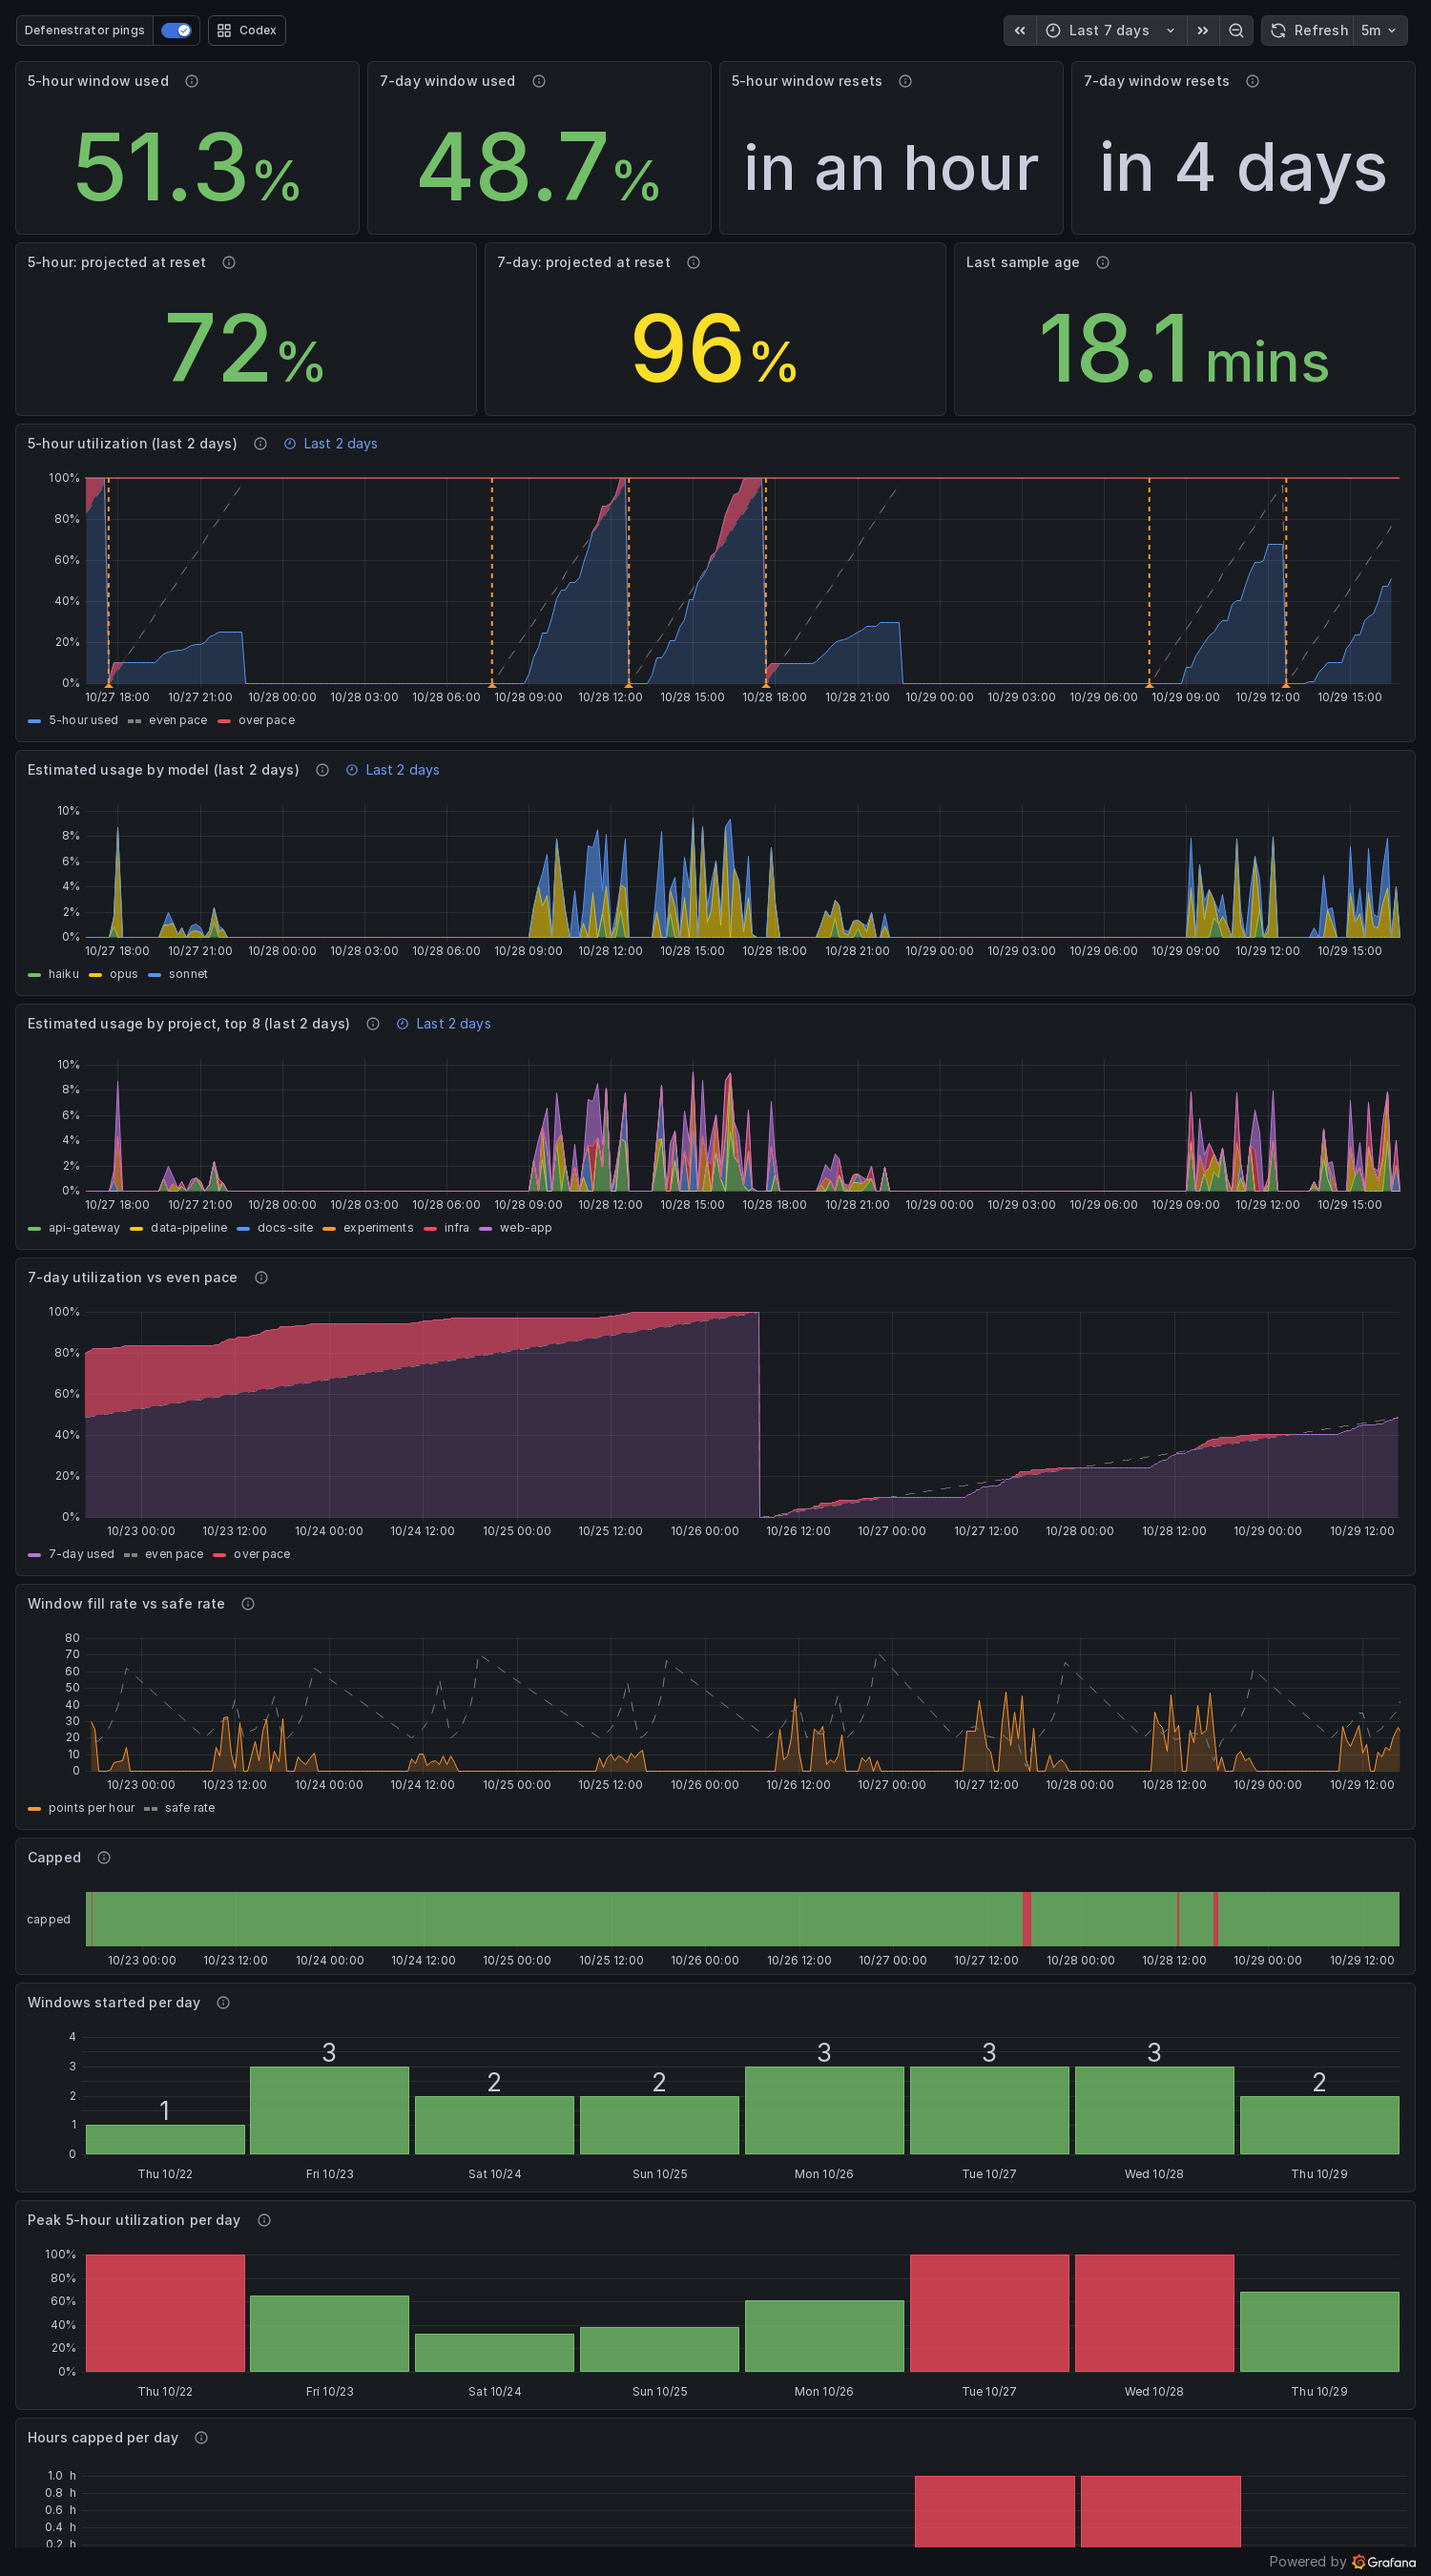
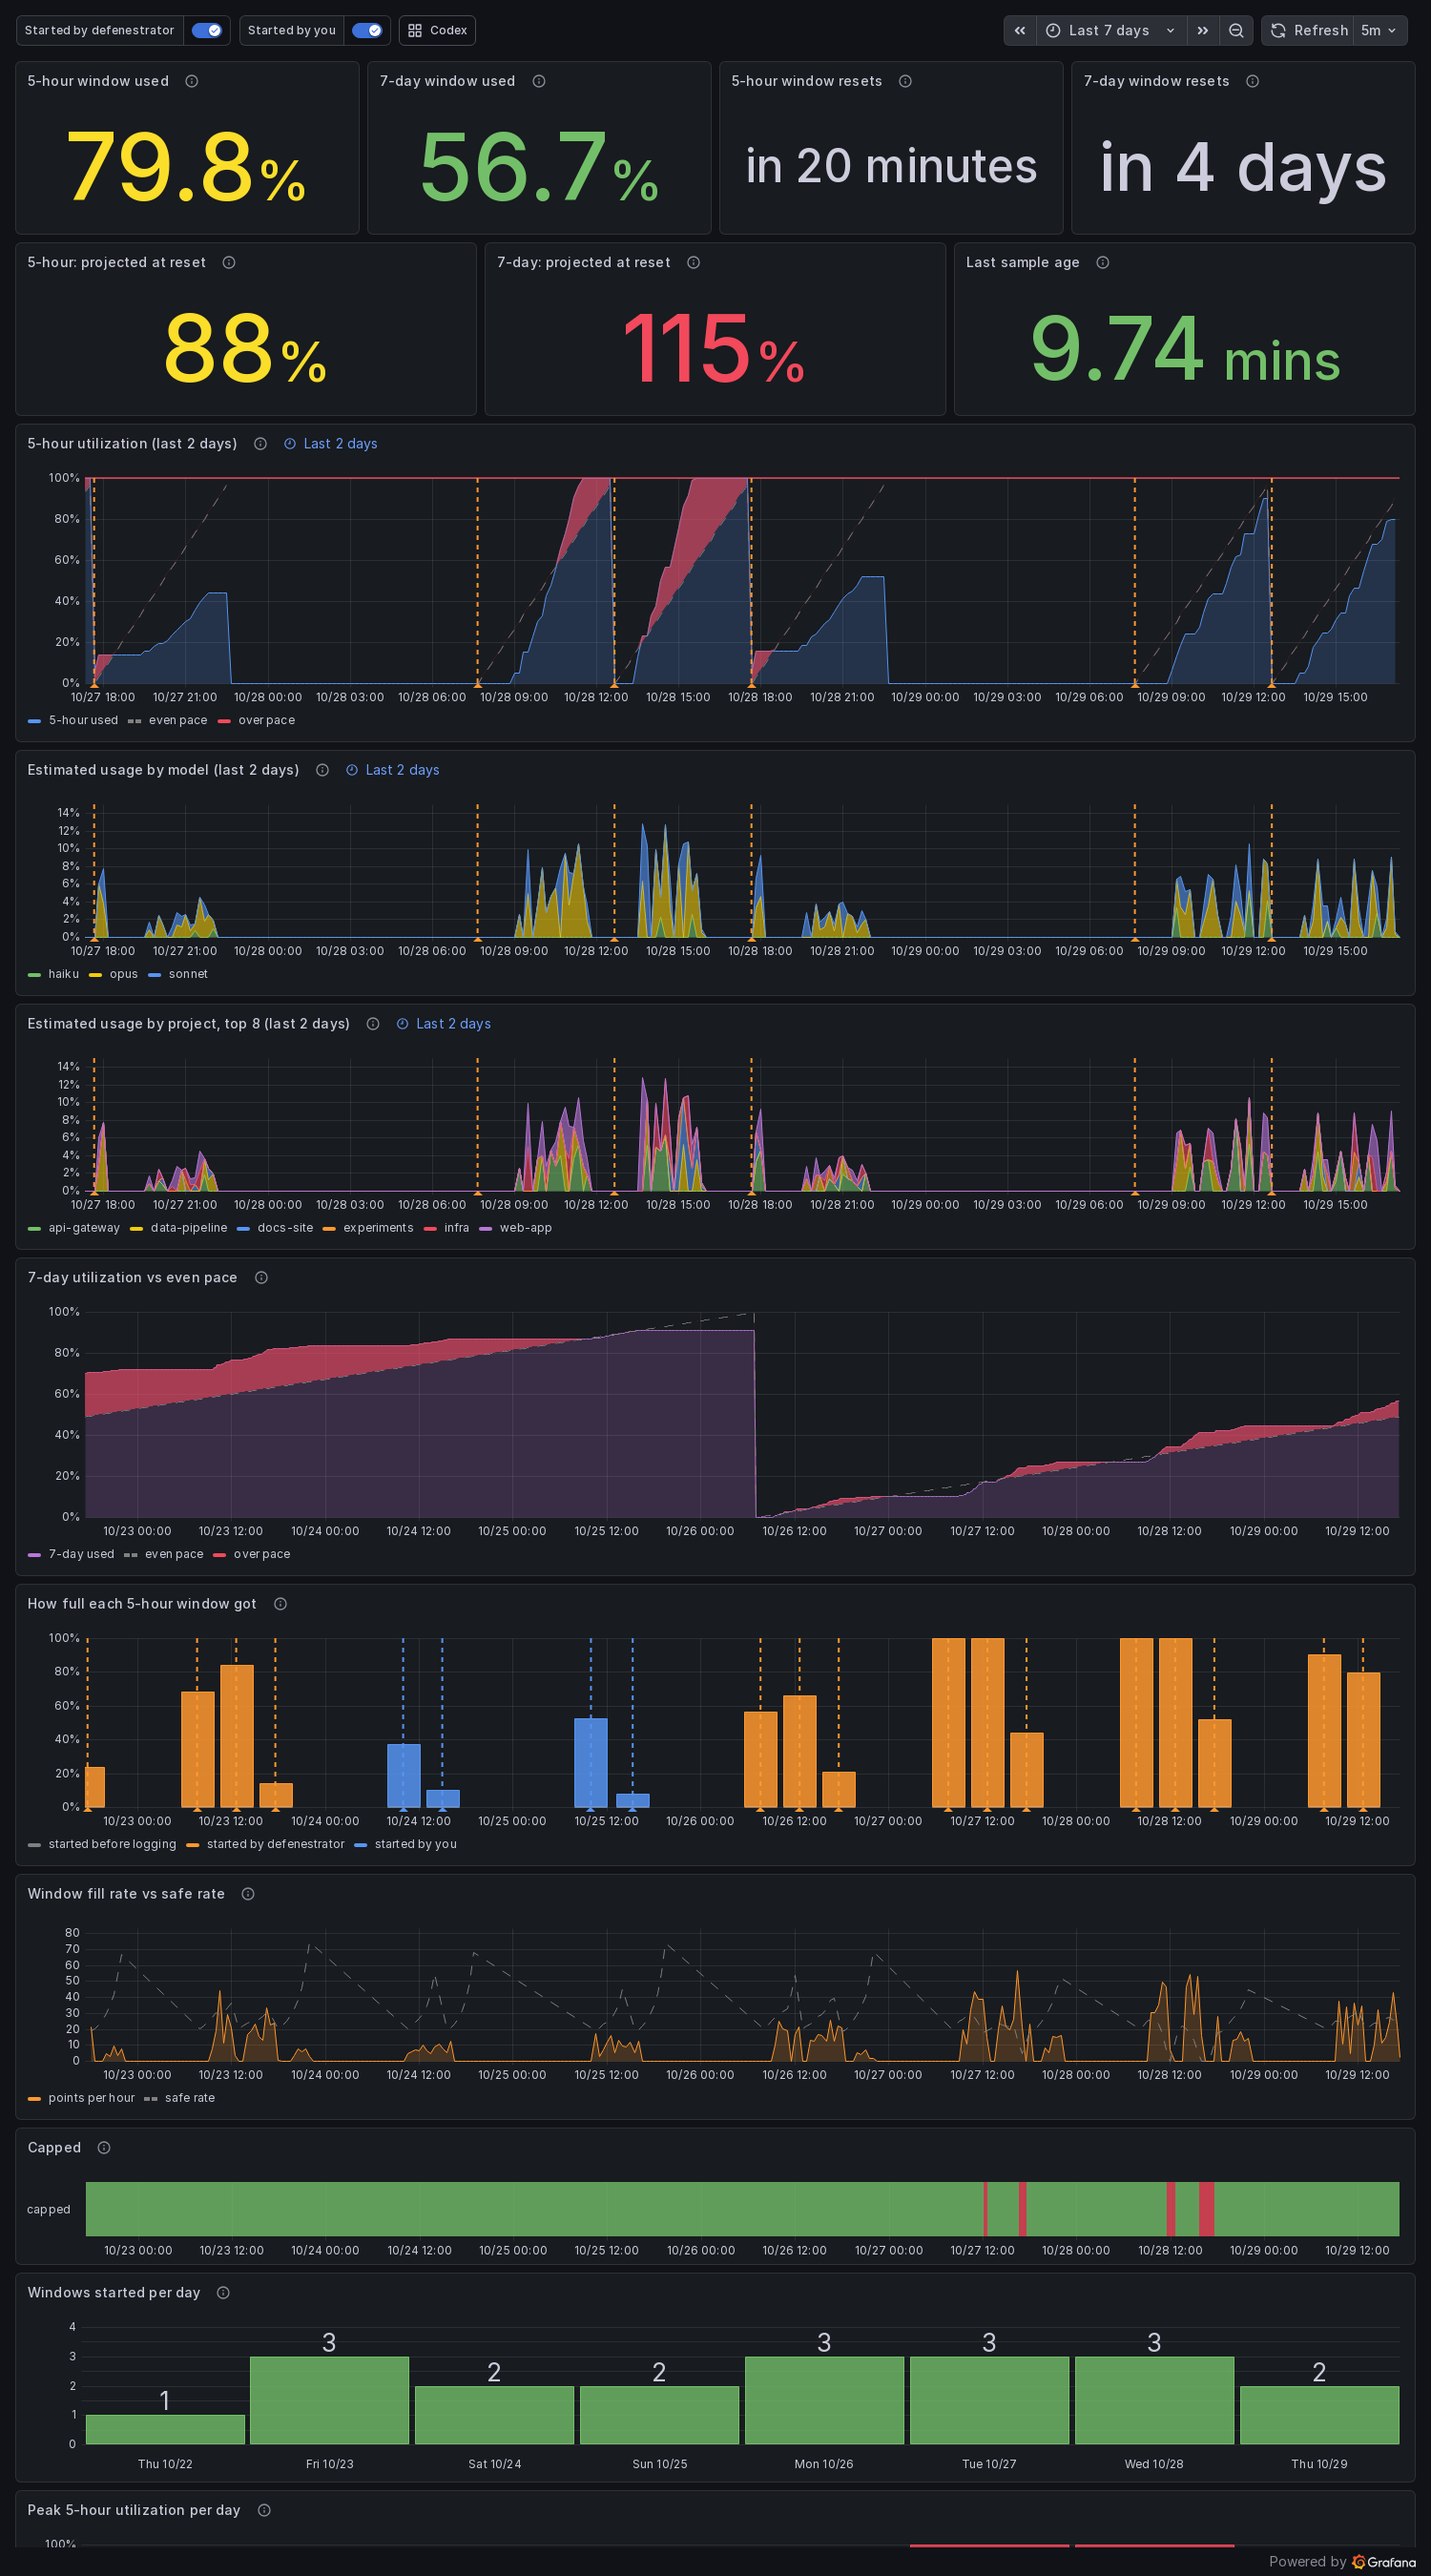
feat(dashboard): show what started each window and how full each got

diff --git a/docs/dashboard.md b/docs/dashboard.md
@@ -107,7 +107,8 @@ Weekly-first, for the window Codex plans actually have (default range 30 days):
 | Weekly fill rate vs safe rate | percentage points per day against `(100 - used) / days left`, the steady rate that lands on exactly 100% at the reset |
 | Usage per day | percentage points of the weekly window used each day |
 | Hours capped per day | time rate limited |
-| 5-hour windows per 7-day window | how many distinct 5-hour windows ran in each week, last 8 weeks (the current week is still filling; the ceiling is about 33) |
+| How full each 5-hour window got | one bar per window, as tall as its peak utilization, coloured by what started it: orange the defenestrator, blue you, grey unknown (before events were logged). Shares the 7-day chart's time axis |
+| 5-hour windows per 7-day window, by how full they got | windows per week (8 weeks), stacked by peak: full (90%+), mostly, partial, barely used (the ceiling is about 33 a week) |
 | Decision log | Codex decisions (plus sampler errors) |
 | 5-hour window (collapsed row) | for plans that have a 5-hour window: utilization against pace and windows started per day |
 
@@ -118,3 +119,7 @@ The usage-by-model/project panels are Claude only: Codex's logs are not priced.
 The file is provisioned read-only (`allowUiUpdates: false`) so it stays in sync with the repo. To
 change it, edit the JSON (or save a copy from the UI) and re-provision. Wait a few seconds between
 edits: Grafana's database can briefly lock while it reloads provisioned dashboards.
+
+## What started a window
+
+A dashed vertical line on the 5-hour, model, project and fullness charts marks every window start: orange when the defenestrator started it, blue when your own first message did. The defenestrator's pings are matched to windows by the reset time each ping recorded, so a window it was about to start but you beat it to is blue. Windows from before events were logged show as unknown on the fullness chart and have no line.

diff --git a/CHANGELOG.md b/CHANGELOG.md
@@ -1,5 +1,8 @@
 # Changelog
 
+## [0.5.3]
+What started each 5-hour window is now visible: orange (defenestrator) and blue (you) lines mark every window start on the 5-hour, model and project charts. New chart "How full each 5-hour window got" (one bar per window, peak utilization, coloured by starter), and the per-week window chart is split by how full the windows were.
+
 ## [0.5.2]
 Both boards are laid out so charts that share an x axis are stacked full-width with matching plot areas: the 2-day charts together, the 7-day time charts together, the per-day bars together (Claude, Codex weekly and per-day charts too).
 
